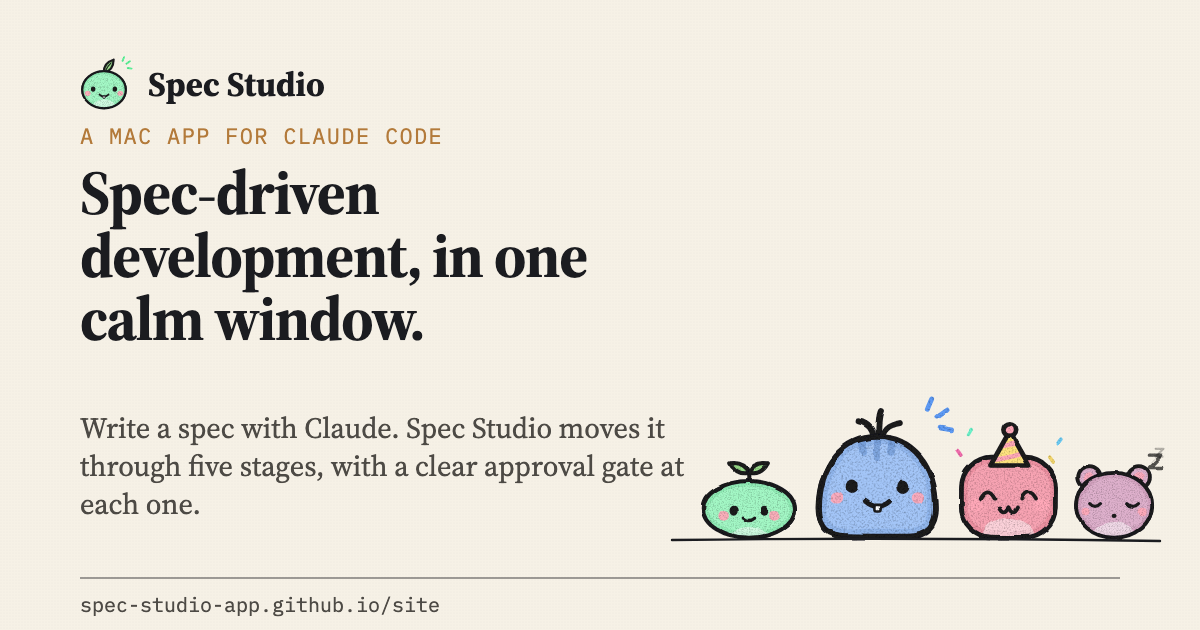
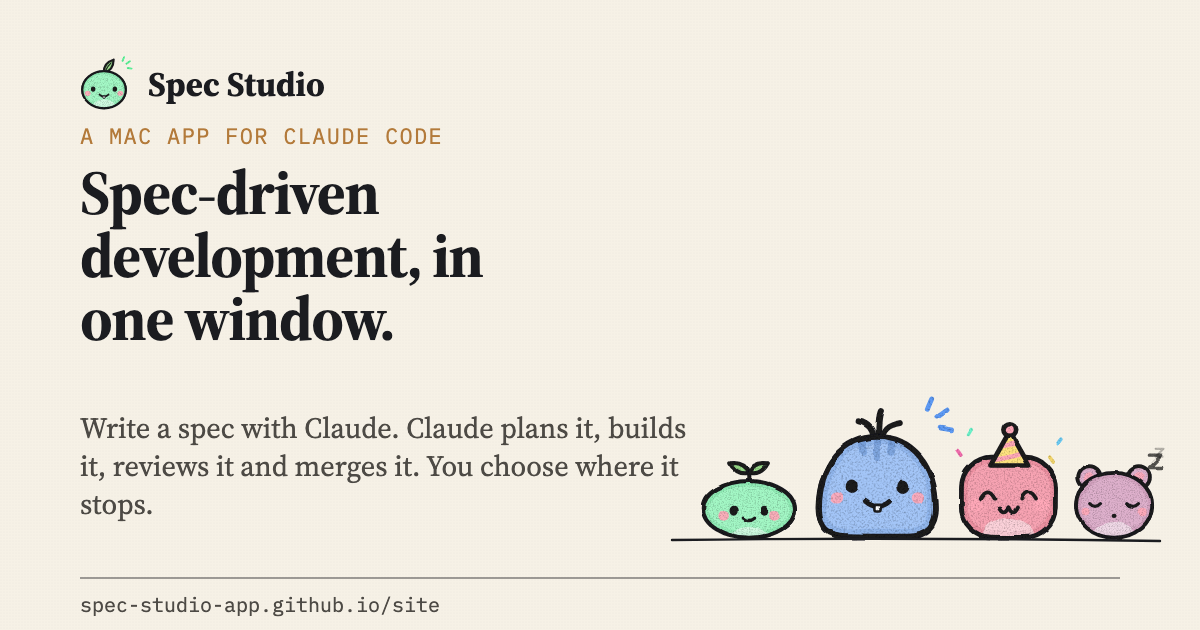
Plainer landing page copy (#5)
Drops "one calm window", "a clear approval gate", "swarm" and "prove each requirement". The intro also fits autopilot, which does not stop at every gate.

Changed region(s): [[0.0617, 0.6635, 0.5858, 0.8143], [0.0617, 0.4524, 0.37, 0.5429], [0.4008, 0.3921, 0.4933, 0.4524]]

diff --git a/src/lib/sections/Stages.svelte b/src/lib/sections/Stages.svelte
@@ -8,7 +8,7 @@
 			light: asset('stages/spec.webp'),
 			dark: asset('stages/spec-dark.webp'),
 			name: 'Spec',
-			text: 'Write the spec with Claude, one question at a time.',
+			text: 'Claude asks you questions and writes the spec with you.',
 			alt: 'The critter writes on a sheet of paper.'
 		},
 		{
@@ -16,7 +16,7 @@
 			light: asset('stages/plan.webp'),
 			dark: asset('stages/plan-dark.webp'),
 			name: 'Plan',
-			text: 'Claude studies the code and plans each repo’s change and merge order.',
+			text: 'Claude reads the code and plans the change in each repo, and the order to merge them.',
 			alt: 'The critter reads an open map.'
 		},
 		{
@@ -32,7 +32,7 @@
 			light: asset('stages/check.webp'),
 			dark: asset('stages/check-dark.webp'),
 			name: 'Check',
-			text: 'A self-review swarm and scenario checks prove each requirement.',
+			text: 'New Claude agents review each pull request, and Claude checks each scenario in the spec.',
 			alt: 'The critter holds a clipboard of check marks.'
 		},
 		{
@@ -40,14 +40,14 @@
 			light: asset('stages/merge.webp'),
 			dark: asset('stages/merge-dark.webp'),
 			name: 'Merge',
-			text: 'Merge in order, clean up the worktrees, and the critter gets a party hat.',
+			text: 'Claude answers the review comments and merges in order. Then the critter gets a party hat.',
 			alt: 'The critter cheers in a party hat.'
 		}
 	];
 </script>
 
 <section class="stages page" aria-labelledby="stages-title">
-	<h2 id="stages-title">Five stages. One calm window.</h2>
+	<h2 id="stages-title">The five stages</h2>
 	<ol>
 		{#each stages as stage, i (stage.id)}
 			<li data-testid="stage">

diff --git a/src/lib/sections/Hero.svelte b/src/lib/sections/Hero.svelte
@@ -35,9 +35,9 @@
 	</div>
 
 	<div class="lead">
-		<h1>Spec-driven development with Claude Code, in one calm window.</h1>
+		<h1>Spec-driven development with Claude Code, in one window.</h1>
 		<div class="aside">
-			<p>Write a spec with Claude. Spec Studio moves it through five stages, with a clear approval gate at each one.</p>
+			<p>Write a spec with Claude. Claude plans it, builds it, reviews it and merges it. You choose where it stops.</p>
 			<Sketch
 				class="peek"
 				light={asset('stages/hero.webp')}

diff --git a/scripts/share-cards.ts b/scripts/share-cards.ts
@@ -30,8 +30,8 @@ export const cards: Card[] = [
 	{
 		slug: 'home',
 		kicker: 'A Mac app for Claude Code',
-		title: 'Spec-driven development, in one calm window.',
-		summary: 'Write a spec with Claude. Spec Studio moves it through five stages, with a clear approval gate at each one.'
+		title: 'Spec-driven development, in one window.',
+		summary: 'Write a spec with Claude. Claude plans it, builds it, reviews it and merges it. You choose where it stops.'
 	},
 	{
 		slug: 'guides',

diff --git a/src/routes/+page.svelte b/src/routes/+page.svelte
@@ -7,7 +7,7 @@
 	import Share from '../lib/layout/Share.svelte';
 
 	const description =
-		'Spec Studio is a native macOS app for spec-driven development with Claude Code. Write a spec with Claude, and move it through five stages with an approval gate at each one.';
+		'Spec Studio is a Mac app for spec-driven development with Claude Code. Write a spec with Claude, then plan, build, review and merge it in one window.';
 </script>
 
 <svelte:head>
